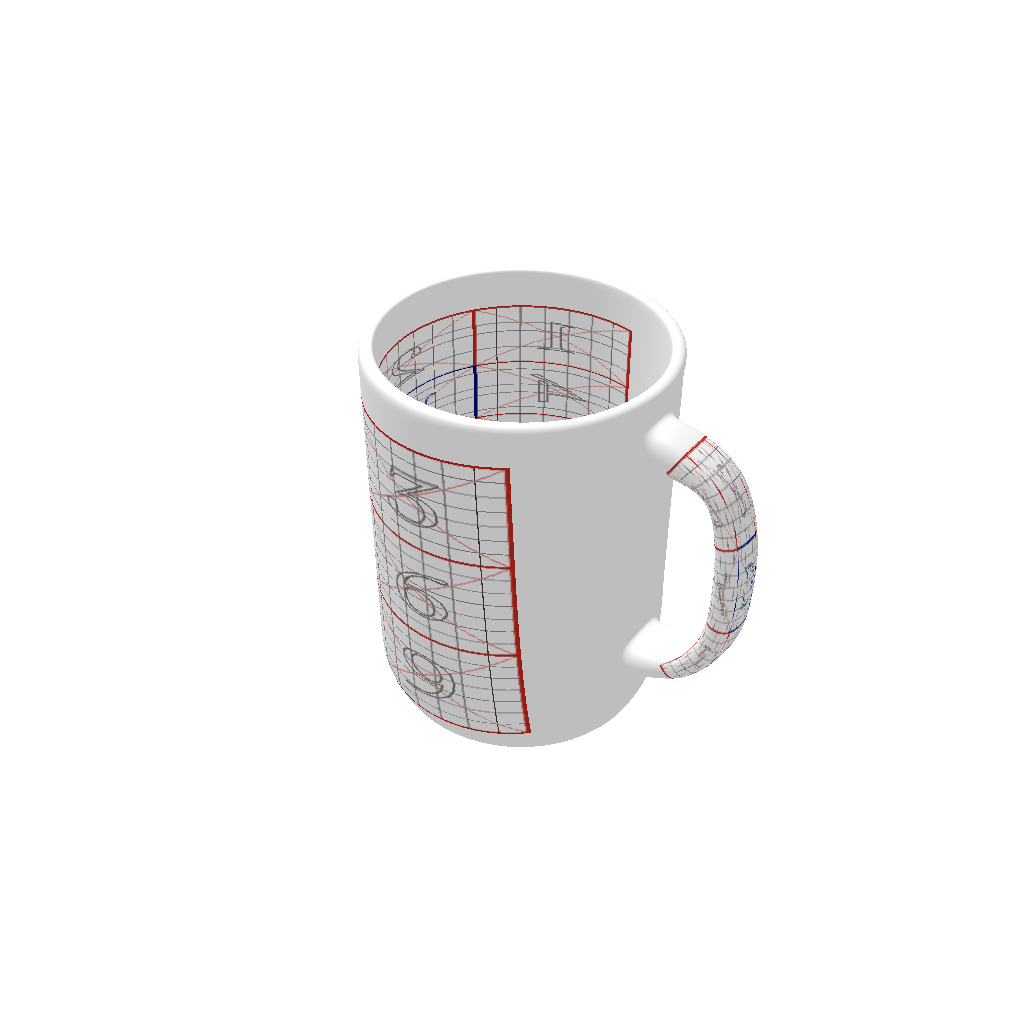
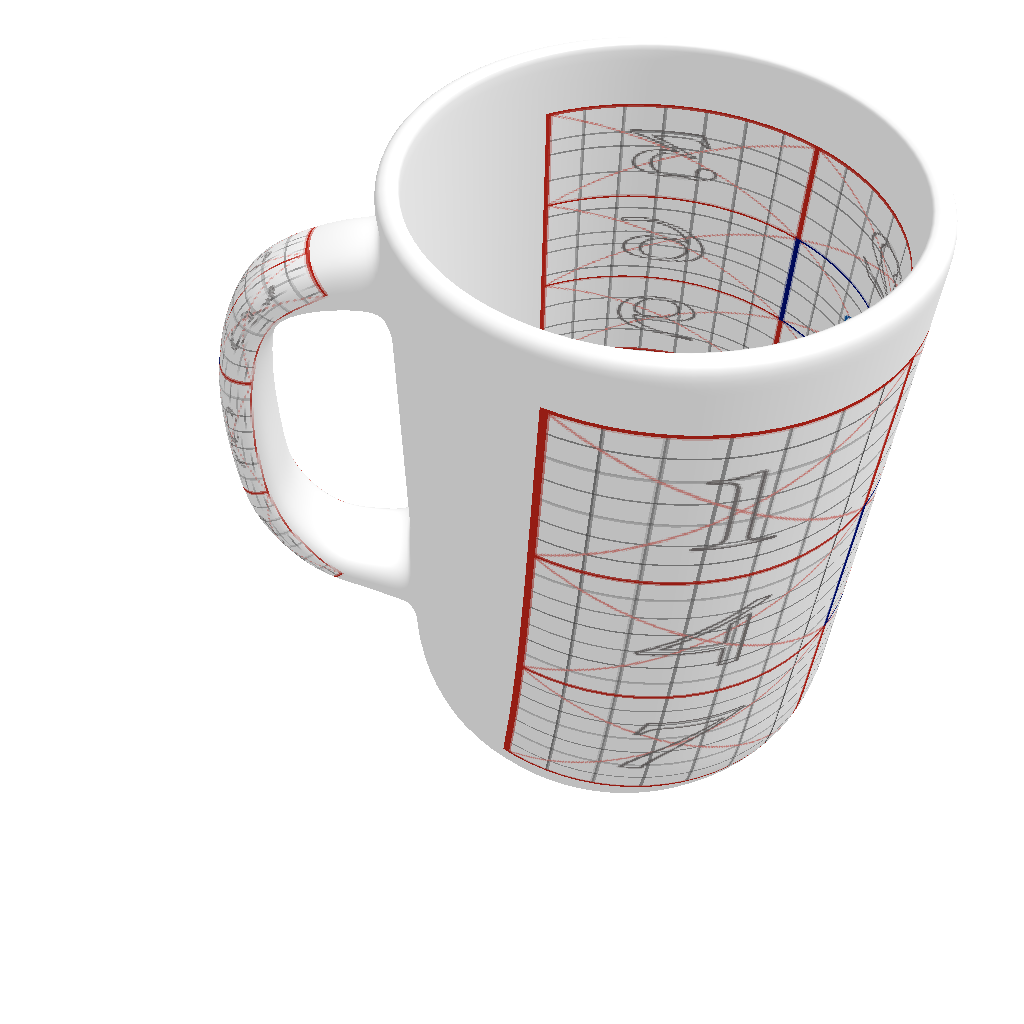
fix the name of file

Changed region(s): [[0.1875, 0.0312, 0.9375, 0.7812]]

diff --git a/indexofOBJ.js b/indexofOBJ.js
@@ -28,14 +28,14 @@ const png = new PNG({ width: WIDTH, height: HEIGHT });
 
 const config = {
     camera: {
-        x: -25.15,
-        y: 24.28,
-        z: 18.63
+        x: 17.35,
+        y: 17.95,
+        z: 3.03
     },
     target: {
-        x: 0,
-        y: 0,
-        z: 0
+        x: 0.84,
+        y: -0.77,
+        z: 2.83
     }
 }
 // 相机视角
